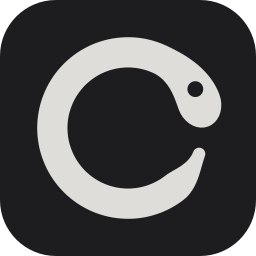
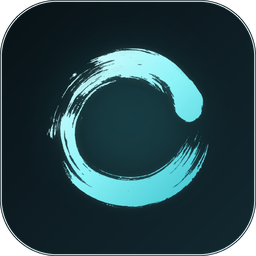
Use the brush enso artwork as the brand mark

diff --git a/renderer/style.css b/renderer/style.css
@@ -78,8 +78,8 @@ input[type="text"]:focus {
   height: 34px;
   flex: 0 0 auto;
   background-color: currentColor;
-  -webkit-mask: url("../assets/qa-dashboard.svg") center / contain no-repeat;
-  mask: url("../assets/qa-dashboard.svg") center / contain no-repeat;
+  -webkit-mask: url("../assets/qa-dashboard-enso.png") center / contain no-repeat;
+  mask: url("../assets/qa-dashboard-enso.png") center / contain no-repeat;
 }
 
 .dot {
@@ -125,8 +125,8 @@ body.overview-mode .topbar-title {
 body.overview-mode .topbar-title .brand-mark {
   width: 56px;
   height: 56px;
-  -webkit-mask-image: url("../assets/qa-dashboard-detailed.svg");
-  mask-image: url("../assets/qa-dashboard-detailed.svg");
+  -webkit-mask-image: url("../assets/qa-dashboard-enso.png");
+  mask-image: url("../assets/qa-dashboard-enso.png");
 }
 
 body.overview-mode .topbar h2 { font-size: 28px; }

diff --git a/docs/ARCHITECTURE.md b/docs/ARCHITECTURE.md
@@ -18,7 +18,7 @@ in the main process.
 
 ## Overview layout
 
-The Overview uses a centered ouroboros lockup above the title. Module cards
+The Overview uses a centered brush-enso lockup above the title. Module cards
 carry their open actions; the Overview has no Refresh or Settings controls.
 The visual language is a TaiG-inspired teal palette with cyan edge glows,
 glassy gradient panels, and layered shadows. Light and dark variants follow the
@@ -62,12 +62,10 @@ Desktop entries set `StartupNotify=false` so single-instance handoff cannot
 leave a stuck busy pointer. Closing all windows exits the process, so the next
 launcher click starts a fresh instance.
 
-The brand mark is a near-closed ouroboros ring with a rounded head, a cut-out
-eye, and a tapered tail. `assets/qa-dashboard.svg` is the simple transparent
-symbol; `assets/qa-dashboard-detailed.svg` adds contour and scale detail for the
-Overview header. `assets/qa-dashboard-icon.svg` is the dark rounded launcher
-icon. The 256 and 512 PNG exports provide the Electron window icon and later
-platform packaging.
+The brand mark is the brush-enso artwork, converted to a transparent alpha mask
+at `assets/qa-dashboard-enso.png`. CSS tints it for the active light or dark
+theme and for the Overview gradient. `assets/qa-dashboard-256.png` and the 512
+and 1024 exports are the dark rounded app icons and the Electron window icon.
 
 ## Settings and auto-refresh
 

diff --git a/docs/PORTING.md b/docs/PORTING.md
@@ -9,7 +9,7 @@ Electron core is shared; only shell integration is platform-specific.
 - `electron/backend.js`: fixed CLI arguments, streaming, SIEM HTTP.
 - `electron/preload.js`: narrow `contextBridge` API.
 - `renderer/`: compact Overview and module views.
-- `assets/qa-dashboard-*`: shared ouroboros brand mark, launcher icon, and PNGs.
+- `assets/qa-dashboard-*`: shared brush-enso brand mark, launcher icon, and PNGs.
 
 Keep module names, window sizes, single-instance behavior, and the token
 boundary unchanged across platforms.
